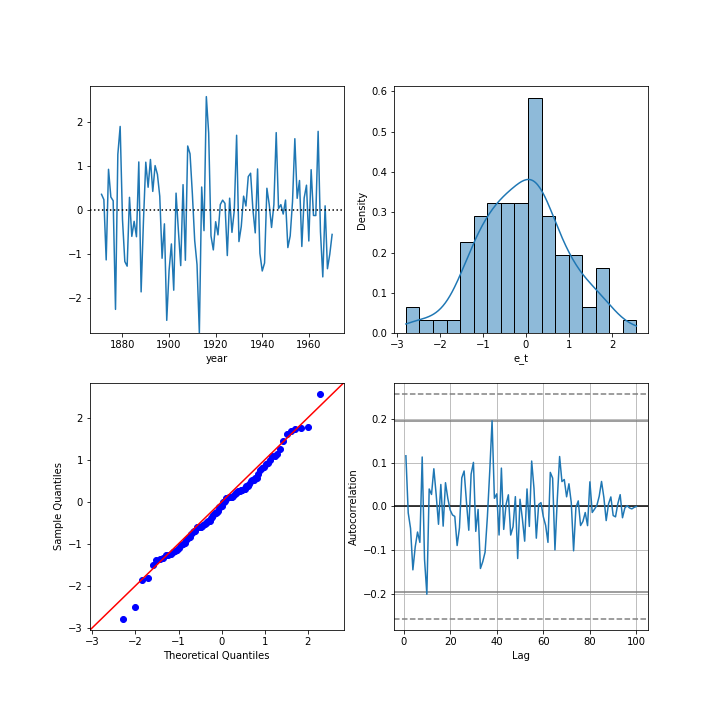
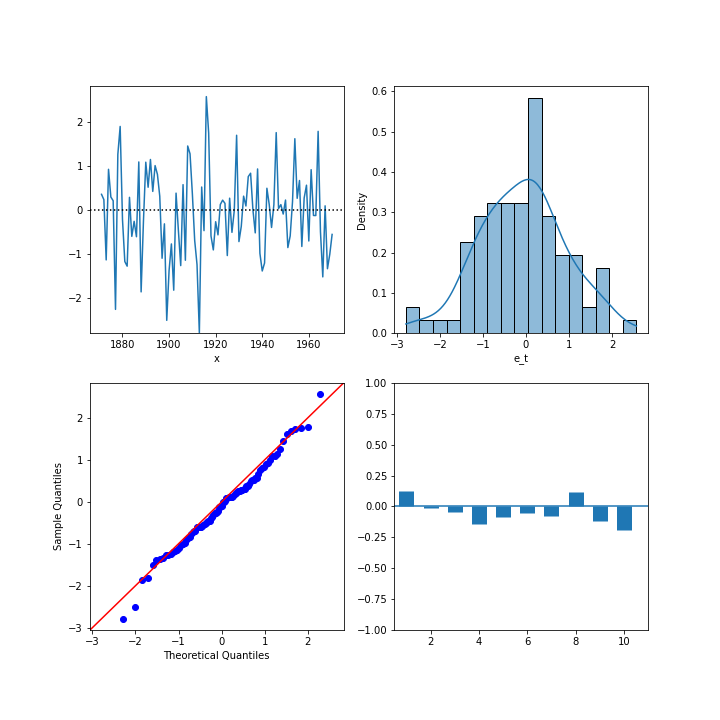
Updated Figures

diff --git a/Part 1/Part1_Arrays.py b/Part 1/Part1_Arrays.py
@@ -6,6 +6,7 @@ import numpy as np
 import matplotlib.pyplot as plt
 import seaborn as sns
 import statsmodels.api as sm
+from scipy.optimize import minimize
 
 # %%
 ########## NOTATION
@@ -28,13 +29,42 @@ P1 = 10 ** 7
 N_OBS = data.shape[0]
 
 # %%
-
-def initialize_cols(df, col_names):
-    # Initialize empty columns to help with recursion
-    return df.reindex(df.columns.tolist() + col_names, axis=1)
+def Kalman_Filter_ML(q):
+    var_e = 1
+    var_h = q[0]
+    
+    for t, y_t in enumerate(data['flow'][1:]):
+        # Initialize Values
+        if t == 0 :
+            a_t = data['flow'][0] 
+            p_t = var_e + var_h
+        
+        # Apply the filter
+        a_tt, p_tt, a_t, p_t, v_t, F_t, K_t = KF_filter(y_t=y_t, a_t=a_t, p_t=p_t, 
+                                                    var_e=var_e, var_h=var_h)
+        
+        # Store output
+        data.loc[t, ['a_t','p_t','v_t','F_t','K_t']] = [a_tt, p_tt, v_t, F_t, K_t]
+    
+    data['F_star_t'] = data['F_t'] / var_e
+    var_e_hat = 1 / (N_OBS - 1) * np.sum(data['v_t'][1:] ** 2 / data['F_star_t'][1:])
+    ll = -N_OBS/2 * np.log(2 * np.pi) - (N_OBS - 1) / 2 - \
+        (N_OBS - 1) / 2 * np.log(var_e_hat) - \
+            0.5 * np.sum(np.log(data['F_star_t'][1:]))
+            
+    print(f'Var E: {var_e}')
+    print(f'Var H: {var_h}')
+    print(f'q: {q}')
+    print(f'LL: {ll}')
+    print('------------')
+    return ll
 
 # %%
-def filter(y_t, a_t, p_t, var_e, var_h):
+bnds = [(1e-10, None)]
+test = minimize(Kalman_Filter_ML, (1), method = 'L-BFGS-B', bounds = bnds)
+
+# %%
+def KF_filter(y_t, a_t, p_t, var_e, var_h):
     
     # Kalman gain calculation
     v_t = y_t - a_t
@@ -52,7 +82,7 @@ def filter(y_t, a_t, p_t, var_e, var_h):
     return a_tt, p_tt, a_t, p_t, v_t, F_t, K_t
 
 # %%
-data = initialize_cols(data, col_names=['a_t','p_t', 'v_t','F_t','K_t'])
+data[['a_t','p_t', 'v_t','F_t','K_t']] = np.nan
 
 # %%
 for t, y_t in enumerate(data['flow']):
@@ -69,7 +99,7 @@ for t, y_t in enumerate(data['flow']):
     data.loc[t, ['a_t','p_t','v_t','F_t','K_t']] = [a_tt, p_tt, v_t, F_t, K_t]
 
 data['L_t'] = 1 - data['K_t']
-data = initialize_cols(data,col_names=['r_t','N_t'])
+data[['r_t','N_t']] = np.nan
 
 # %%
 for t in reversed(range(N_OBS)):
@@ -78,6 +108,17 @@ for t in reversed(range(N_OBS)):
     else:
         data.loc[t, 'N_t'] = (1 / data.loc[t+1, 'F_t']) + ((data.loc[t+1, 'L_t'] ** 2) * data.loc[t+1, 'N_t'])
         data.loc[t, 'r_t'] = (data.loc[t+1, 'v_t'] / data.loc[t+1, 'F_t']) + (data.loc[t+1, 'L_t'] * data.loc[t+1, 'r_t'])
+# %%
+
+# %%
+data[['alpha_hat_t', 'V_t']] = np.nan
+data.loc[0, 'alpha_hat_t'] = A1
+data.loc[1:,'alpha_hat_t'] = data.loc[1:, 'a_t'] + data.loc[1:, 'p_t'] * data.loc[:N_OBS, 'r_t']
+data.loc[0, 'V_t'] = P1
+data.loc[1:,'V_t'] = data.loc[1:, 'p_t'] - ((data.loc[1:, 'p_t'] ** 2) * data.loc[:N_OBS, 'N_t'])
+
+
+
 #%%
 
 data['D_t'] = (1 / data['F_t']) + ((data['K_t'] ** 2) * data['N_t'])
@@ -106,7 +147,15 @@ data['e_t'] = data['v_t'] / np.sqrt(data['F_t'])
 
 
 
+# %%
 
+# Confidence intervals
+
+data['a_t_upper_c'] = data['a_t'] + 1.96 * np.sqrt(data['p_t'])
+data['a_t_lower_c'] = data['a_t'] - 1.96 * np.sqrt(data['p_t'])
+
+data['alpha_hat_t_upper_c'] = data['alpha_hat_t'] + 1.96 * np.sqrt(data['V_t'])
+data['alpha_hat_t_lower_c'] = data['alpha_hat_t'] - 1.96 * np.sqrt(data['V_t'])
 
 
 # %%
@@ -118,10 +167,12 @@ axes = axes.ravel()
 ########### STILL NEED CONFIDENCE INTERVALS
 data.plot(ax = axes[0], x = 'year', y = 'flow', linestyle = 'none', marker = '.', color = 'red',
          ylim = (450,1400), xlim = (1865,1975), legend = None)
+data.plot(ax = axes[0], x = 'year', y = 'a_t_upper_c', color = 'black', linewidth = 0.4, legend = None)
 data.plot(ax = axes[0], x = 'year', y = 'a_t', color = 'blue', legend = None)
+data.plot(ax = axes[0], x = 'year', y = 'a_t_lower_c', color = 'black', linewidth = 0.4, legend = None)
 
 # Filtered State Variance Pt
-data.plot(ax = axes[1], x = 'year', y = 'p_t')
+data.plot(ax = axes[1], x = 'year', y = 'p_t', legend =None)
 
 # Prediction Errors vt
 data.plot(ax = axes[2], x = 'year', y = 'v_t', ylim = (-450,450), legend = None)
@@ -135,10 +186,26 @@ plt.savefig('Figures/Fig_2_1.png', facecolor='w')
 
 # %%
 # FIGURE 2.2
-fig, axes = plt.subplots(2,2,figsize=(10,10))
+
+fig, axes = plt.subplots(2,2, figsize = (10,10))
 axes = axes.ravel()
 
+# Data and Smoothed State alpha_hat
+data.plot(ax = axes[0], x = 'year', y = 'flow', linestyle = 'none', marker = '.', color = 'red',
+         ylim = (450,1400), xlim = (1865,1975), legend = None)
+data.iloc[1:].plot(ax = axes[0], x = 'year', y = 'alpha_hat_t_upper_c', color = 'black', linewidth = 0.4, legend = None)
+data.iloc[1:].plot(ax = axes[0], x = 'year', y = 'alpha_hat_t', color = 'blue', legend = None)
+data.iloc[1:].plot(ax = axes[0], x = 'year', y = 'alpha_hat_t_lower_c', color = 'black', linewidth = 0.4, legend = None)
 
+# Smoothed State Variance Vt
+data.plot(ax = axes[1], x = 'year', y = 'V_t', ylim = (2200, 4100), legend =None)
+
+# Smoothing Cumulant rt
+
+data.plot(ax = axes[2], x = 'year', y = 'r_t', legend = None)
+axes[2].axhline(y = 0, color = 'black', linestyle = ':')
+# Smoothing Cumulant Variant Nt
+data.plot(ax = axes[3], x = 'year', y = 'N_t', ylim = (6e-5, .00011), legend =None)
 
 
 # Save Figure
@@ -202,9 +269,17 @@ sns.histplot(ax = axes[1], data=data.iloc[2:], x = 'e_t', stat='density', kde=Tr
 sm.qqplot(data.loc[9:, 'e_t'], ax = axes[2], line ='45')
 
 # Correlogram
+correls = np.correlate(data['e_t'], data['e_t'], mode="full")
+correls /= np.dot(data['e_t'], data['e_t'])
 
-#### DOESN"T LOOK LIKE RIGHT TYPE OF PLOT
-pd.plotting.autocorrelation_plot(data['e_t'], ax = axes[3]).plot()
+maxlags = 10
+lags = np.arange(-maxlags, maxlags + 1)
+correls = correls[N_OBS - 1 - maxlags:N_OBS + maxlags]
+
+axes[3].vlines(lags, [0], correls, linewidth = 15)
+axes[3].axhline()
+axes[3].set_ylim(-1,1)
+axes[3].set_xlim((.5,11))
 
 # Save Figure
 plt.savefig('Figures/Fig_2_7.png', facecolor = 'w')
@@ -232,4 +307,3 @@ sns.histplot(ax = axes[3], data=data.iloc[2:], x = 'r_star_t', stat='density', k
 # Save Figure
 plt.savefig('Figures/Fig_2_8.png', facecolor = 'w')
 
-# %%
